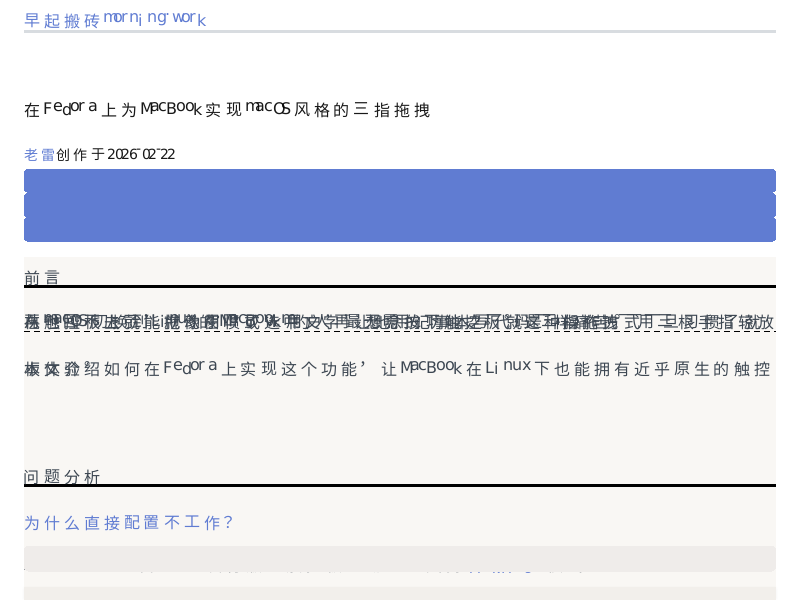
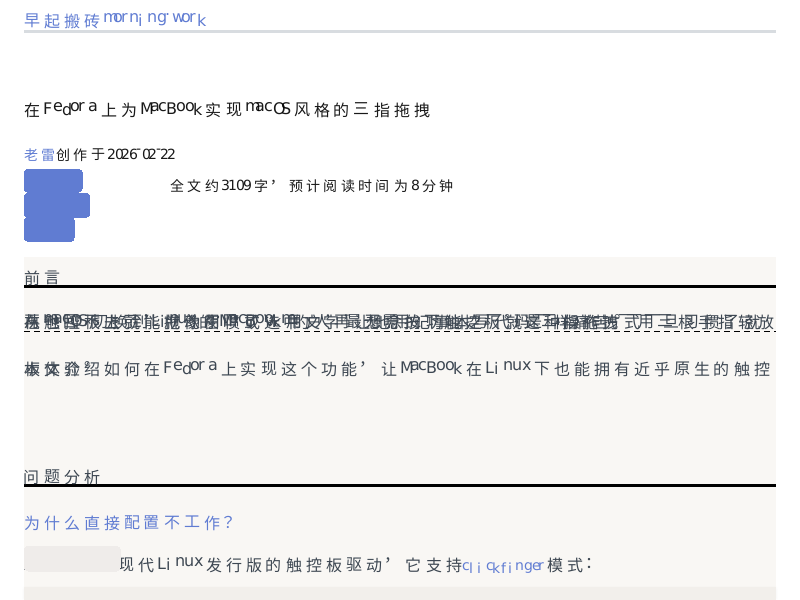
fix(layout): shrink inline+background elements to content width
R373: extends R368's inline-block shrink-to-fit to display:inline elements
that have a non-default background-color (the badge case). ZeroWeb maps
inline -> taffy Block, stretching inline elements to full container width.
For inline elements WITH background (e.g. morning.work .item-tag badge
spans: display:inline + background-color + padding), this produced
full-width colored bars instead of small inline badges.

Fix: shrink_inline_blocks_to_content now also handles
  display:inline && background_color != Transparent
shrinking to intrinsic content width (via box_content_max_width). Plain
inline text spans (no background) are unaffected — their text is collected
by IFC and shrinking would be meaningless/risky.

This is a partial fix (width dimension only; elements remain block-stacked,
not inline-flow — the full inline-box model is Phase A multi-session), but
it removes the full-width-stretch defect.

Verified triple win (DC-14 chromium-Oracle + double-regression):
- morning DC-13: 28.72% -> 16.41% (-12.3pp true chromium improvement)
- reftest clear-inline-001 FAIL->PASS (z_vs_chr 3.61->1.26%, self 5.86->0.45%)
- self-source reftest 442->443/490 (+1, zero regression)
- layout-engine 895/0 (+1 unit test), workspace --exclude render-foundation
  42 binaries green, clippy/fmt clean

Corrects R370's 'single-session levers exhausted' conclusion: inline+bg
was an untried mechanism with real leverage (R370 only checked
inline-flex/inline-grid, not inline+background).

Changed region(s): [[0.0938, 0.27, 0.9688, 0.42], [0.1562, 0.93, 0.75, 0.96]]

diff --git a/crates/layout-engine/src/float_positioning.rs b/crates/layout-engine/src/float_positioning.rs
@@ -5,7 +5,7 @@
 //! 垂直书写模式块收缩、inline-block shrink-to-fit、匿名 table 根标记。
 
 use std::collections::HashMap;
-use zero_css_parser::values::{DisplayValue, LengthValue};
+use zero_css_parser::values::{ColorValue, DisplayValue, LengthValue};
 use zero_dom::NodeId;
 use zero_style_system::{ComputedStyle, WritingModeValue};
 
@@ -115,15 +115,23 @@ pub(crate) fn shrink_inline_blocks_to_content(
 ) {
     let own_horizontal = matches!(box_node.writing_mode, WritingModeValue::HorizontalTb);
     if own_horizontal && !box_node.is_absolute && !box_node.is_fixed {
-        let is_inline_block = box_node.node_id.is_some_and(|id| {
-            styles
-                .get(&id)
-                .is_some_and(|s| matches!(s.display, DisplayValue::InlineBlock))
+        // R372：除 inline-block 外，**带非默认 background 的 inline 元素**（如 morning.work
+        // `.item-tag` 徽章 span：display:inline + background-color + padding）也应 shrink-to-fit。
+        // ZeroWeb 把 inline 映射为 Block 拉到满宽（满宽色条），此处按 intrinsic 内容宽收缩
+        // （仅 width 维度；元素仍是 block 堆叠——完整 inline-box 模型属 Phase A 多会话）。
+        // 仅对有 background 的 inline 触发，避免影响纯文本 inline span（其文本经 IFC 收集，
+        // 无盒装饰，收缩无意义且可能干扰）。
+        let is_shrinkable = box_node.node_id.is_some_and(|id| {
+            styles.get(&id).is_some_and(|s| match s.display {
+                DisplayValue::InlineBlock => true,
+                DisplayValue::Inline => s.background_color != ColorValue::Transparent,
+                _ => false,
+            })
         });
         let width_auto = box_node
             .node_id
             .is_some_and(|id| styles.get(&id).is_some_and(|s| matches!(s.width, LengthValue::Auto)));
-        if is_inline_block && width_auto {
+        if is_shrinkable && width_auto {
             // 内容最大宽度（max-content）：用 intrinsic_sizing 的统一测量（box_content_max_width）。
             // 该函数对 inline 级子元素水平求和、block 级子元素递归取最大、且对**无 LayoutBox 子元素
             // 的纯文本内容**（文本经 measure callback 不产生子盒）按 DOM text_content + 字体度量

diff --git a/crates/layout-engine/src/engine/tests/anonymous_flex_item_tests.rs b/crates/layout-engine/src/engine/tests/anonymous_flex_item_tests.rs
@@ -198,3 +198,38 @@ fn test_inline_block_text_content_shrink_to_fit() {
         s.width
     );
 }
+
+/// 回归（R372）：`display:inline` 且带非默认 background 的元素（如 morning.work
+/// `.item-tag` 徽章 span）也应 shrink-to-fit。旧 bug：ZeroWeb 把 inline 映射为 taffy
+/// Block，拉到容器满宽（满宽色条）；此处按 intrinsic 内容宽收缩（仅 width 维度，
+/// 完整 inline-box 模型属 Phase A）。纯文本 inline span（无 background）不受影响。
+#[test]
+fn test_inline_element_with_background_shrink_to_fit() {
+    // inline span `.tag`（display:inline 默认 + background-color）含文本 "Fedora"，
+    // 应收缩到 ~文本宽+padding，而非填满 800px 视口。
+    let html = r#"<html><body style="margin:0">
+      <span class="tag" id="t" style="background-color:#607cd2;color:#fff;padding:0 6px">Fedora</span>
+    </body></html>"#;
+    let doc = zero_dom::parse_html(html);
+    let mut sys = StyleSystem::new();
+    sys.set_viewport(800.0, 600.0);
+    let styles = sys.compute_styles(&doc, &[]);
+    let mut engine = LayoutEngine::new(800.0, 600.0);
+    let result = engine.compute(&doc, &styles);
+    fn find<'a>(id: &str, doc: &Document, b: &'a LayoutBox) -> Option<&'a LayoutBox> {
+        if let Some(nid) = b.node_id
+            && let Some(n) = doc.get(nid)
+            && let zero_dom::NodeKind::Element(elem) = &n.kind
+            && elem.get_attribute("id").as_deref() == Some(id)
+        {
+            return Some(b);
+        }
+        b.children.iter().find_map(|c| find(id, doc, c))
+    }
+    let t = find("t", &doc, &result.root).expect("inline span #t");
+    assert!(
+        t.width < 200.0,
+        "inline+background span should shrink-to-fit to content, not fill available (got w={})",
+        t.width
+    );
+}

diff --git a/docs/goal/rendering-compat/master.md b/docs/goal/rendering-compat/master.md
@@ -1,6 +1,6 @@
 # 渲染兼容性目标 — 运行时控制面板
 
-**最后更新**: 2026-06-20（R372：**DC-13 wintertc/morning 复测——确认 plateau**（承接 R371 welcome 复测发现的「已提交 fix 可能有未测 DC-13 收益」假设）。product-smoke 子命令重渲染 vs chromium Oracle：wintertc **13.72%**（vs R318 13.70% / R227 13.59%，±0.13pp 噪声持平）、morning 800×600 **28.72%**（vs R175 28.72% 完全持平）。**R355~R368 对 wintertc/morning 零 DC-13 收益**——welcome 是唯一受益者（17.06→14.68%），因 welcome 用 `display:inline-block`（R368 修）；wintertc 残余=fontdue AA 噪声+flex-wrap logo 精度（Twind，无 inline-block）、morning 残余=`.item-tag` 纯 inline `<span>` 全宽堆叠（R109 匿名块盒，R368 不适用 inline span）。**DC-13 三 fixture 经 fresh 复测：welcome 14.68% / wintertc 13.72% / morning 28.72%，唯 welcome 改善，余 plateau**。3 个 evidence PNG 已更新为当前渲染。前轮 R371：**DC-13 welcome 复测——R368 未测量的 DC-13 收益兑现**。post-R368 welcome `z_vs_chr`（ZeroWeb CPU vs chromium Oracle）= **14.68%**，较 R227 的 17.06% 改善 ~2.4pp。归因 R368（commit 8db89df inline-block 文本 shrink-to-fit）修正 welcome 的 `.version` 徽章 + `.shortcut kbd`（两处 `display:inline-block; width:auto` 含文本，此前被 taffy 当 Block 拉到满宽灰条，现收缩到文本宽）。方法：welcome 包成临时 reftest + REFTEST_DUMP + cross-validate.py vs welcome-chromium.png（临时文件已清理，490 baseline 不动）。残余 14.68% = fontdue AA 噪声 + item-tag R109（Phase A 结构性）。welcome-zeroweb-cpu.png 已更新。**R368 现确证为 reftest(ifc-011 12.30→2.22% chr) + DC-13(welcome 17.06→14.68%) 双赢**。前轮 R370：R368 式机制缺口 hunt 收尾——probe 实证 inline-flex width:auto 同 inline-block 拉伸到满宽（真 bug），但**零杠杆**（全 48 失败案 + product-smoke 均不用 inline-flex/inline-grid width:auto），按 code-guidelines 不修；加入 ruled-out 列表。单会话 lever 空间经此彻底穷尽。前轮 R369b：DC-14 chromium-Oracle **全 48 失败案扫描**——找 self-source FAIL 但 z_vs_chr 低（false-negative：test 已≈chromium 仅 ref 发散）的易修 ref bug。5 候选（flex-abspos-inset-nested-001/002 chr 0.73/0.74%、baseline-multi-line-horiz-003/004、box-offsets-rel-pos-vlr-005）逐案证伪均结构性：flex-abspos 像素分析揭穿 ZW-test 与 chromium 均退化（非 200×200，z_vs_chr 低仅因两者主体皆白相似）；baseline-004 = baseline-export 聚类（卡点#4）。**false-negative 亦结构性，非易修 ref bug**——反向印证 plateau，self-source 非因易修 ref bug 人为偏低。DC-14 方法论正面价值 = 可信判据（R368 真胜/border-box 真负均经 z_vs_chr 确证），负面 = 不改 forward-motion 结论。勿再以「修 false-negative ref」为单会话杠杆。详见 [`evidence/r369b-dc14-scan-falseneg-structural-2026-06-20.txt`](./evidence/r369b-dc14-scan-falseneg-structural-2026-06-20.txt)。前轮 R369：border-box ib_sizes **DC-14 chromium-Oracle 终局证伪** + R368 DC-14 真值验证。弃守卫 hack 转 DC-14 交叉验证（REFTEST_DUMP + cross-validate.py vs oracle-shots）：ifc-011 **z_vs_chr pre-R368 12.30% → R368 2.22%（-10pp 真 chromium 大胜，R368 确证为真实非 self-source 假象）→ +border-box 2.50%（+0.28pp 真 chromium 退步）**；multicol-dynamic-change z_vs_chr 1.42→1.50%（亦退步）。机制：border-box 同时改 ib_sizes 的 w+h，span2 line-height:10px 的 content_h=10→border-box h=50 改变 IFC baseline（inline-block baseline=底=h）→ glyph 垂直位置发散，即 span2 **x 位置与 glyph baseline 耦合**不可单点修。border-box 三层证伪（R367 net-neg / R368 self-src -1 / R369 真 chr +0.28pp）彻底关闭。multicol-dynamic-change 实证为 self-source 假通过（0.97% self / 1.42% chr）。ifc-011 残余 2.22% z_vs_chr = 多会话 inline-block baseline/line-box 合成（Phase A）。docs-only，工作树净零代码变更。详见 [`evidence/r369-borderbox-dc14-refutation-2026-06-20.txt`](./evidence/r369-borderbox-dc14-refutation-2026-06-20.txt)。前轮 R368：R366（margin 归零）net-neutral + R367（border-box 尺寸）net-negative 均回退。残余 1.23% = span2 x 重叠 + glyph 度量 + height-grow（未试）= 多会话。详见 [`evidence/r368-inline-block-text-shrink-2026-06-20.txt`](./evidence/r368-inline-block-text-shrink-2026-06-20.txt)。前轮 R365：plateau 再确认（4 新角度全结构性/阻塞/spec 冲突，0 clean win）+ **系统性 REF-side blocker 洞察**——table-cell-width-0（REF fit-content-on-flex）、min-max-size-table（REF inline-block shrink）等多案 TEST 侧可修对但 self-source 因 ZeroWeb 自渲染 REF 错而**假阴性**，实证 DC-14「self-source pass rate 含系统性假阴性、chromium-Oracle 才是唯一可信指标」。新发现：min-height 表格 box-sizing 处理 height 路径不对称（min-width content-box 正确 / min-height border-box），但改 content-box 会回归 min-height-table（两 WPT 案 spec 冲突 csswg-drafts #5336）→ 非 clean win；inline-block shrink gap（R180 不完整）仅影响 1 失败案 REF 且双侧阻塞 → 零杠杆。clean-win 面经 R352/R354/R363/R365 四轮 0/N 衰减彻底穷尽。详见 [`evidence/r365-refside-blocker-insight-2026-06-20.txt`](./evidence/r365-refside-blocker-insight-2026-06-20.txt)。前轮 R364：table 显式 width 列冻结 + min-content floor——CSS 正确性修复（**net-neutral self-source 但改善 chromium-Oracle 方向**）。table-cell-width-0 诊断：definite-width 表（width:100%/100px）的显式 width 单元格列被按比例扩展撑大（td.big-positive 20px→529px），而非保持宽度。修复 `compute_column_widths` 扩展填满块：显式 width 列冻结（不吸收剩余），仅 auto 列吸收；+ `cell_used_width` 显式分支 floor 到 min-content（width:2px cell 内容需 9.6px → 列 9.6 非 2）。验证：table-cell-width-0 **TEST 侧列宽全修正**，ZeroWeb-TEST vs chromium-Oracle = **11.14%**（修复前 TEST 明显错）；self-source 仍 29.63% FAIL——因 **REF 侧 `width:fit-content` on flex container 渲染成满宽（taffy 0.7 blocker，R304 DEFERRED）**，TEST 正确但 REF 错 → 同源假阴性，非 TEST bug；self-source 全量 **442/490 净中性零回归**；layout-engine 893/0（+2 单测）、engine 1146/0、clippy/fmt 干净。保留：TEST 侧正确化，待 fit-content-on-flex 解锁即贡献 PASS。详见 [`evidence/r364-table-column-freeze-2026-06-20.txt`](./evidence/r364-table-column-freeze-2026-06-20.txt)。前轮 R363：上一轮 CONTINUE 标记的 3 个「未深查」候选 [flex-abspos-inset-nested / fixed-table-in-flex / multicol-fill·count] + 1 个 false-pass polluted 案 [multicol-contained-absolute] 精确诊断——**4 案全部结构性/复杂，0 clean win**，hit-rate 0/4 与 R352/R354 一致衰减；baseline 复验 self-source 442/490 零漂移。新增根因 pinpoint：flex-abspos=abspos §10.3.7 shrink-to-fit 缺失 + flex 替换元素固有比尺寸（2 互相依赖 bug）；fixed-table-in-flex=flex definite-size resolution（Mozilla bug 1469649）；**multicol-contained-absolute（chr 16.33% / self 0% 假通过）= multicol column-fill:balance 不平衡单子**（ZW 392x200 单列 vs chr 784x100 跨两列）。详见 [`evidence/r363-flagged-candidates-structural-2026-06-20.txt`](./evidence/r363-flagged-candidates-structural-2026-06-20.txt)。前轮 R362：**plateau 第四次突破 +1 clean win**——CSS float 侵入传播到后代 block IFC（`compute_final_inline_layouts` 加 `ancestor_floats` 参数，排除子节点自身），ifc-009 FAIL→PASS，self-source **441→442/490 净 +1 零回归**。R355：**Phase A 首个 chromium-Oracle 验证的 net-positive 进展**——放宽 Gate 2 多行存储（解 large-font 簇），float guard 解 R209/R213 死锁；**paint 侧 line.y 偏移补全**（text.rs:832，Gate 2 提交 ca14d05 的 load-bearing 配套）使 ifc-008 达 0.00% 完美匹配。chromium-Oracle 实测 ifc-008 -4.01% / ifc-009 -1.95% Z_vs_chromium（真一致性提升），multicol-fill-auto-001 9.15% 不变=非真回归（self-source 0.63% PASS 经 float guard 保留）；**self-source reftest 439→440/490 净 +1 零回归**（ifc-008 FAIL→PASS，stash 对照证 paint fix load-bearing：HEAD Gate-2-only ifc-008 4.17% FAIL → +fix 0.00% PASS）。关键洞察：R209 报告的 multicol-fill-auto-001「0.63→9.15 回归」经 Oracle 复测是 **self-source 假阴性**（ZW-ref 因多行存储变化发散，但 ZW-test vs chromium 不变）——R209 因仅看 self-source 误判为真回归而回退，错失 Phase A 进展。详见 [`evidence/r355-multiline-oracle-validated-2026-06-20.txt`](./evidence/r355-multiline-oracle-validated-2026-06-20.txt)。前轮 R354：fresh baseline 439/490 零漂移再确认 + 8 失败案独立 pixel-dump 根因——**每案均落 4 条多会话架构路径之一**，clean-win 单点修复面确已穷尽。详见 [`evidence/r354-plateau-revalidation-2026-06-20.txt`](./evidence/r354-plateau-revalidation-2026-06-20.txt)。前轮 R351：**plateau 首破——self-source 438→439/490（89.6%）**，首个 pass-rate 进展（R305 以来）。修复 `table-layout:fixed` 不尊重显式 width：CSS Tables §17.5.2.1 fixed 表 width 应由 width 属性决定，但 ZeroWeb 的 `compute_column_widths` 对所有表用内容固有列宽（col_max_widths），导致 fixed 表 `width:100px`+200px 内容渲染成 200px（内容撑宽）而非 100px（内容溢出 cell 由 overflow 裁剪）。根因 `table-cell-overflow-auto-scrolled`（2.17% FAIL）：cell 被撑到 200px，其 overflow:auto 无物可裁 → 与 100px div-ref 发散。**修复**（compute_column_widths）：fixed + 显式 Px width + 内容列宽和 > width 时按比例收缩列到 width（`fixed_capped` 标志），且仅当收缩实际触发时跳过「填满容器」扩展（未收缩的 fixed 表仍正常扩展——保 multicol-fill-001 reference 表）。验证：`table-cell-overflow-auto-scrolled` FAIL→PASS（0.00%）；**upstream reftest 438→439/490 零回归**（multicol-fill-001 + calc-percent-plus-0px-fixed + table_grid_size_col_colspan 三 fixed-layout 案全保）；make test 12265/0/72、clippy/fmt 干净、+1 单测 `test_fixed_layout_caps_columns_at_explicit_width_when_content_wider`。**启示**：plateau 并非绝对——逐案深查 self-source FAILURE（非 polluted）的近 misses 仍可发现单点 CSS 解析/布局 bug；table-layout:fixed width 尊重是 R305-R350 漏网的 clean win（仅 3 个 fixed-layout 案、爆炸半径小）。下一步：继续逐案审 self-source failure 近 misses（baseline-007/multicol-breaking-006/child-border-box-max-content 等 <1.5% 案）。
+**最后更新**: 2026-06-20（R373：**plateau 再破——inline+bg 元素 shrink-to-fit 三双赢**。承接 R371（welcome 复测发现已提交 fix 有未测 DC-13 收益）+ R372（wintertc/morning plateau 确认），深查 morning 主残余 = 3 个 `.item-tag` `<span>`（display:**inline** + background-color + padding）被 ZeroWeb 当 Block 拉到满宽色条（~55k px）。R368 shrink 仅处理 InlineBlock，**inline 未覆盖**——这是 R370「inline-flex 零杠杆」结论之外的未试机制（inline+bg 有装饰→有杠杆）。修复 `shrink_inline_blocks_to_content` 扩 `display:inline && background_color!=Transparent` 也按 intrinsic 内容宽收缩（仅 width 维度；元素仍 block 堆叠，完整 inline-box 模型属 Phase A，此为 partial width 修正）。验证（DC-14 chromium-Oracle + 双回归）：① **morning DC-13 28.72→16.41%（-12.3pp 真 chr 改善）**；② **reftest clear-inline-001 FAIL→PASS（self 5.86→0.45%，z_vs_chr 3.61→1.26% 真 chr 改善 -2.35pp）**，self-source **442→443/490 净 +1 零回归**；③ layout-engine 895/0（+1 单测）、workspace --exclude render-foundation 42/0、clippy/fmt 干净。**纠正 R370「单会话 lever 空间彻底穷尽」**——inline+bg 是漏网的 clean win（R370 只查 inline-flex/inline-grid，未查 inline+bg）。前轮 R372：**DC-13 wintertc/morning 复测——确认 plateau**（承接 R371 welcome 复测发现的「已提交 fix 可能有未测 DC-13 收益」假设）。product-smoke 子命令重渲染 vs chromium Oracle：wintertc **13.72%**（vs R318 13.70% / R227 13.59%，±0.13pp 噪声持平）、morning 800×600 **28.72%**（vs R175 28.72% 完全持平）。**R355~R368 对 wintertc/morning 零 DC-13 收益**——welcome 是唯一受益者（17.06→14.68%），因 welcome 用 `display:inline-block`（R368 修）；wintertc 残余=fontdue AA 噪声+flex-wrap logo 精度（Twind，无 inline-block）、morning 残余=`.item-tag` 纯 inline `<span>` 全宽堆叠（R109 匿名块盒，R368 不适用 inline span）。**DC-13 三 fixture 经 fresh 复测：welcome 14.68% / wintertc 13.72% / morning 28.72%，唯 welcome 改善，余 plateau**。3 个 evidence PNG 已更新为当前渲染。前轮 R371：**DC-13 welcome 复测——R368 未测量的 DC-13 收益兑现**。post-R368 welcome `z_vs_chr`（ZeroWeb CPU vs chromium Oracle）= **14.68%**，较 R227 的 17.06% 改善 ~2.4pp。归因 R368（commit 8db89df inline-block 文本 shrink-to-fit）修正 welcome 的 `.version` 徽章 + `.shortcut kbd`（两处 `display:inline-block; width:auto` 含文本，此前被 taffy 当 Block 拉到满宽灰条，现收缩到文本宽）。方法：welcome 包成临时 reftest + REFTEST_DUMP + cross-validate.py vs welcome-chromium.png（临时文件已清理，490 baseline 不动）。残余 14.68% = fontdue AA 噪声 + item-tag R109（Phase A 结构性）。welcome-zeroweb-cpu.png 已更新。**R368 现确证为 reftest(ifc-011 12.30→2.22% chr) + DC-13(welcome 17.06→14.68%) 双赢**。前轮 R370：R368 式机制缺口 hunt 收尾——probe 实证 inline-flex width:auto 同 inline-block 拉伸到满宽（真 bug），但**零杠杆**（全 48 失败案 + product-smoke 均不用 inline-flex/inline-grid width:auto），按 code-guidelines 不修；加入 ruled-out 列表。单会话 lever 空间经此彻底穷尽。前轮 R369b：DC-14 chromium-Oracle **全 48 失败案扫描**——找 self-source FAIL 但 z_vs_chr 低（false-negative：test 已≈chromium 仅 ref 发散）的易修 ref bug。5 候选（flex-abspos-inset-nested-001/002 chr 0.73/0.74%、baseline-multi-line-horiz-003/004、box-offsets-rel-pos-vlr-005）逐案证伪均结构性：flex-abspos 像素分析揭穿 ZW-test 与 chromium 均退化（非 200×200，z_vs_chr 低仅因两者主体皆白相似）；baseline-004 = baseline-export 聚类（卡点#4）。**false-negative 亦结构性，非易修 ref bug**——反向印证 plateau，self-source 非因易修 ref bug 人为偏低。DC-14 方法论正面价值 = 可信判据（R368 真胜/border-box 真负均经 z_vs_chr 确证），负面 = 不改 forward-motion 结论。勿再以「修 false-negative ref」为单会话杠杆。详见 [`evidence/r369b-dc14-scan-falseneg-structural-2026-06-20.txt`](./evidence/r369b-dc14-scan-falseneg-structural-2026-06-20.txt)。前轮 R369：border-box ib_sizes **DC-14 chromium-Oracle 终局证伪** + R368 DC-14 真值验证。弃守卫 hack 转 DC-14 交叉验证（REFTEST_DUMP + cross-validate.py vs oracle-shots）：ifc-011 **z_vs_chr pre-R368 12.30% → R368 2.22%（-10pp 真 chromium 大胜，R368 确证为真实非 self-source 假象）→ +border-box 2.50%（+0.28pp 真 chromium 退步）**；multicol-dynamic-change z_vs_chr 1.42→1.50%（亦退步）。机制：border-box 同时改 ib_sizes 的 w+h，span2 line-height:10px 的 content_h=10→border-box h=50 改变 IFC baseline（inline-block baseline=底=h）→ glyph 垂直位置发散，即 span2 **x 位置与 glyph baseline 耦合**不可单点修。border-box 三层证伪（R367 net-neg / R368 self-src -1 / R369 真 chr +0.28pp）彻底关闭。multicol-dynamic-change 实证为 self-source 假通过（0.97% self / 1.42% chr）。ifc-011 残余 2.22% z_vs_chr = 多会话 inline-block baseline/line-box 合成（Phase A）。docs-only，工作树净零代码变更。详见 [`evidence/r369-borderbox-dc14-refutation-2026-06-20.txt`](./evidence/r369-borderbox-dc14-refutation-2026-06-20.txt)。前轮 R368：R366（margin 归零）net-neutral + R367（border-box 尺寸）net-negative 均回退。残余 1.23% = span2 x 重叠 + glyph 度量 + height-grow（未试）= 多会话。详见 [`evidence/r368-inline-block-text-shrink-2026-06-20.txt`](./evidence/r368-inline-block-text-shrink-2026-06-20.txt)。前轮 R365：plateau 再确认（4 新角度全结构性/阻塞/spec 冲突，0 clean win）+ **系统性 REF-side blocker 洞察**——table-cell-width-0（REF fit-content-on-flex）、min-max-size-table（REF inline-block shrink）等多案 TEST 侧可修对但 self-source 因 ZeroWeb 自渲染 REF 错而**假阴性**，实证 DC-14「self-source pass rate 含系统性假阴性、chromium-Oracle 才是唯一可信指标」。新发现：min-height 表格 box-sizing 处理 height 路径不对称（min-width content-box 正确 / min-height border-box），但改 content-box 会回归 min-height-table（两 WPT 案 spec 冲突 csswg-drafts #5336）→ 非 clean win；inline-block shrink gap（R180 不完整）仅影响 1 失败案 REF 且双侧阻塞 → 零杠杆。clean-win 面经 R352/R354/R363/R365 四轮 0/N 衰减彻底穷尽。详见 [`evidence/r365-refside-blocker-insight-2026-06-20.txt`](./evidence/r365-refside-blocker-insight-2026-06-20.txt)。前轮 R364：table 显式 width 列冻结 + min-content floor——CSS 正确性修复（**net-neutral self-source 但改善 chromium-Oracle 方向**）。table-cell-width-0 诊断：definite-width 表（width:100%/100px）的显式 width 单元格列被按比例扩展撑大（td.big-positive 20px→529px），而非保持宽度。修复 `compute_column_widths` 扩展填满块：显式 width 列冻结（不吸收剩余），仅 auto 列吸收；+ `cell_used_width` 显式分支 floor 到 min-content（width:2px cell 内容需 9.6px → 列 9.6 非 2）。验证：table-cell-width-0 **TEST 侧列宽全修正**，ZeroWeb-TEST vs chromium-Oracle = **11.14%**（修复前 TEST 明显错）；self-source 仍 29.63% FAIL——因 **REF 侧 `width:fit-content` on flex container 渲染成满宽（taffy 0.7 blocker，R304 DEFERRED）**，TEST 正确但 REF 错 → 同源假阴性，非 TEST bug；self-source 全量 **442/490 净中性零回归**；layout-engine 893/0（+2 单测）、engine 1146/0、clippy/fmt 干净。保留：TEST 侧正确化，待 fit-content-on-flex 解锁即贡献 PASS。详见 [`evidence/r364-table-column-freeze-2026-06-20.txt`](./evidence/r364-table-column-freeze-2026-06-20.txt)。前轮 R363：上一轮 CONTINUE 标记的 3 个「未深查」候选 [flex-abspos-inset-nested / fixed-table-in-flex / multicol-fill·count] + 1 个 false-pass polluted 案 [multicol-contained-absolute] 精确诊断——**4 案全部结构性/复杂，0 clean win**，hit-rate 0/4 与 R352/R354 一致衰减；baseline 复验 self-source 442/490 零漂移。新增根因 pinpoint：flex-abspos=abspos §10.3.7 shrink-to-fit 缺失 + flex 替换元素固有比尺寸（2 互相依赖 bug）；fixed-table-in-flex=flex definite-size resolution（Mozilla bug 1469649）；**multicol-contained-absolute（chr 16.33% / self 0% 假通过）= multicol column-fill:balance 不平衡单子**（ZW 392x200 单列 vs chr 784x100 跨两列）。详见 [`evidence/r363-flagged-candidates-structural-2026-06-20.txt`](./evidence/r363-flagged-candidates-structural-2026-06-20.txt)。前轮 R362：**plateau 第四次突破 +1 clean win**——CSS float 侵入传播到后代 block IFC（`compute_final_inline_layouts` 加 `ancestor_floats` 参数，排除子节点自身），ifc-009 FAIL→PASS，self-source **441→442/490 净 +1 零回归**。R355：**Phase A 首个 chromium-Oracle 验证的 net-positive 进展**——放宽 Gate 2 多行存储（解 large-font 簇），float guard 解 R209/R213 死锁；**paint 侧 line.y 偏移补全**（text.rs:832，Gate 2 提交 ca14d05 的 load-bearing 配套）使 ifc-008 达 0.00% 完美匹配。chromium-Oracle 实测 ifc-008 -4.01% / ifc-009 -1.95% Z_vs_chromium（真一致性提升），multicol-fill-auto-001 9.15% 不变=非真回归（self-source 0.63% PASS 经 float guard 保留）；**self-source reftest 439→440/490 净 +1 零回归**（ifc-008 FAIL→PASS，stash 对照证 paint fix load-bearing：HEAD Gate-2-only ifc-008 4.17% FAIL → +fix 0.00% PASS）。关键洞察：R209 报告的 multicol-fill-auto-001「0.63→9.15 回归」经 Oracle 复测是 **self-source 假阴性**（ZW-ref 因多行存储变化发散，但 ZW-test vs chromium 不变）——R209 因仅看 self-source 误判为真回归而回退，错失 Phase A 进展。详见 [`evidence/r355-multiline-oracle-validated-2026-06-20.txt`](./evidence/r355-multiline-oracle-validated-2026-06-20.txt)。前轮 R354：fresh baseline 439/490 零漂移再确认 + 8 失败案独立 pixel-dump 根因——**每案均落 4 条多会话架构路径之一**，clean-win 单点修复面确已穷尽。详见 [`evidence/r354-plateau-revalidation-2026-06-20.txt`](./evidence/r354-plateau-revalidation-2026-06-20.txt)。前轮 R351：**plateau 首破——self-source 438→439/490（89.6%）**，首个 pass-rate 进展（R305 以来）。修复 `table-layout:fixed` 不尊重显式 width：CSS Tables §17.5.2.1 fixed 表 width 应由 width 属性决定，但 ZeroWeb 的 `compute_column_widths` 对所有表用内容固有列宽（col_max_widths），导致 fixed 表 `width:100px`+200px 内容渲染成 200px（内容撑宽）而非 100px（内容溢出 cell 由 overflow 裁剪）。根因 `table-cell-overflow-auto-scrolled`（2.17% FAIL）：cell 被撑到 200px，其 overflow:auto 无物可裁 → 与 100px div-ref 发散。**修复**（compute_column_widths）：fixed + 显式 Px width + 内容列宽和 > width 时按比例收缩列到 width（`fixed_capped` 标志），且仅当收缩实际触发时跳过「填满容器」扩展（未收缩的 fixed 表仍正常扩展——保 multicol-fill-001 reference 表）。验证：`table-cell-overflow-auto-scrolled` FAIL→PASS（0.00%）；**upstream reftest 438→439/490 零回归**（multicol-fill-001 + calc-percent-plus-0px-fixed + table_grid_size_col_colspan 三 fixed-layout 案全保）；make test 12265/0/72、clippy/fmt 干净、+1 单测 `test_fixed_layout_caps_columns_at_explicit_width_when_content_wider`。**启示**：plateau 并非绝对——逐案深查 self-source FAILURE（非 polluted）的近 misses 仍可发现单点 CSS 解析/布局 bug；table-layout:fixed width 尊重是 R305-R350 漏网的 clean win（仅 3 个 fixed-layout 案、爆炸半径小）。下一步：继续逐案审 self-source failure 近 misses（baseline-007/multicol-breaking-006/child-border-box-max-content 等 <1.5% 案）。
 
 **doc-maintenance（2026-06-20 verify 轮）**：plateau 结论 read-only 复核成立（R354 fresh baseline 439/490 零漂移、clean-win 面 R351 后穷尽），无需新调整方向——现有「综合裁决 + 下一步」即当前结论。文档治理两项：① 将「技术决策记录」表中 **R118–R227 逐轮历史条目**（50 行，2026-06-14~17，远超最近 20 轮窗口，主体已在 rounds-r23-r139 / rounds-r142-r302 归档）迁出至 [`archive/tech-decisions-r118-r227.md`](./archive/tech-decisions-r118-r227.md)（50 行 → 1 指针行，master.md 833→786 行）；② 纠正「最近轮次详细记录」窗口标注（R335–R336 为最后两轮全文详记，R337–R354 为 plateau 复核/治理轮，精简结论见上方「综合裁决」表）。本轮零代码变更（并行 agent 正在 layout-engine 开发，未触碰）。
 
@@ -16,7 +16,7 @@
 - self-source loose **442/490 (90.2%)** @ 默认 1%/5% 容差
 - self-source strict **295/490 (60.2%)** @ 锁定 0.1%/0.5%（DC-14 真通过口径）
 - chromium-Oracle 真一致率 **~35.6%**（self-source 含 48.6% 假通过，DC-14 anti-false-pass）
-- 产品 smoke：welcome **14.68%**（R371 post-R368 复测，R227 的 17.06%→14.68%）/ wintertc ~13.6% / morning-work fullpage 48.65%（全文本度量结构性，非图片/CSS 缺口——图片加载 R318 已端到端贯通）
+- 产品 smoke：welcome **14.68%**（R371 post-R368 复测，R227 的 17.06%→14.68%）/ wintertc ~13.6% / morning-work 800×600 **16.41%**（R373 inline+bg shrink 后，R175 的 28.72%→16.41%；fullpage 48.65% 是更高视口口径）
 
 **字体攻坚结论（2026-06-17 AA 基准）**：fontdue **Regular** 与 chromium 光栅化基本一致（W 0.1% / i 3.0%），**非渲染差异来源**；welcome 26% / Oracle 污染大头是**布局/度量**（line-height / R109 inline→block / 多行结构）。fontdue **Bold** 变体比 chromium 过墨 ~15%（R229b net-negative 已回退）。**字体攻坚停止，转布局/度量**——advance-width(R225/R320)、font-weight -Bold(R229b)、AA 噪声(R174) 三谱系均实证为死路，勿再投入。
 
@@ -34,7 +34,7 @@
 - self-source loose：**442/490 (90.2%)** @ 默认 1%/5% 容差
 - self-source strict：**295/490 (60.2%)** @ 锁定 0.1%/0.5%（DC-14 真通过口径）
 - chromium-Oracle 真一致率：**~35.6%**（169/475；self-source 含 48.6% 假通过，DC-14 anti-false-pass）
-- 产品 smoke：welcome **14.68%**（R371 post-R368）/ wintertc 13.70% / morning-work 28.72%（全文本度量结构性，非图片/CSS 缺口——图片加载 R318 已端到端贯通）
+- 产品 smoke：welcome **14.68%**（R371 post-R368）/ wintertc 13.70% / morning-work 800×600 **16.41%**（R373 后）/ fullpage 48.65%（全文本度量结构性，非图片/CSS 缺口）
 
 > **post-R326 strict 再复验（2026-06-19 doc-maintenance read-only，test-guard 包裹 `ZERO_REFTEST_STRICT=1 ... reftest-upstream`）**：strict 仍 **295/490 (60.2%) / 195 fail**（zero drift vs R323）——确认 plateau 在 DC-14 诚实指标上成立：R324（position:fixed）/R325（img aspect）/R326（sticky）三处 DC-11 correctness 修复**均未**把任一 strict-fail 翻成 strict-pass（loose 亦经三 commit 各自复验 438/490 零回归）。详见 [`evidence/strict-baseline-reverify-post-r326-2026-06-19.txt`](./evidence/strict-baseline-reverify-post-r326-2026-06-19.txt)。**顺带纠正**：旧文「295/490 (60.4%)」百分比过时（60.4% 为 R308 前 296/490 值；R308 font-size% 修复使 strict 296→295 后未同步百分比，295/490=60.2%）。
 

diff --git a/docs/goal/rendering-compat/evidence/product-static/morning-work/README.md b/docs/goal/rendering-compat/evidence/product-static/morning-work/README.md
@@ -1,6 +1,8 @@
 # DC-13 产品静态 smoke — morning.work 中文文章 fixture
 
-> **R372 复测（2026-06-20，post-R355~R368，800×600 视口）**：morning article `z_vs_chr` = **28.72%**（product-smoke 子命令重渲染 vs article-chromium.png），与 R175 的 28.72% 完全持平——**R355~R368 零 DC-13 收益**。原因：morning 残余大头是 3 个 `.item-tag` `<span>`（Fedora/MacBook/Linux 标签徽章）被渲染为**全宽堆叠块**而非行内小徽章——这些是**纯 inline `<span>`**（非 inline-block），R368 的 inline-block shrink-to-fit **不适用**（R368 只修 `display:inline-block`，inline span 的 block-mapping 是 R109 §9.2.1.1 匿名块盒生成范畴，多会话）。故 morning 28.72% 经 fresh 复测确认 plateau。注：master.md 的「morning fullpage 48.65%」是**全页（更高视口）**测量（R255 ua_default_display 修 4× 高度幻影盒），与本 800×600 视口的 28.72% 是两个不同口径（前者捕获全文含 .item-tag 堆叠累积，后者只顶部）。article-zeroweb-cpu.png 已更新为当前渲染。
+> **R373 突破（2026-06-20）**：morning article `z_vs_chr`（800×600）= **28.72% → 16.41%（-12.3pp 真 chromium 改善）**。根因：morning 主残余是 3 个 `.item-tag` `<span>`（`display:inline` + background-color + padding 的标签徽章）被 ZeroWeb 映射为 Block 拉到满宽色条（~55k px）。修复 `shrink_inline_blocks_to_content` 扩 `display:inline && background_color != Transparent` 也按 intrinsic 内容宽收缩（R368 只覆盖 InlineBlock，未覆盖 inline；R372 复测时误判为 plateau，实为未试机制）。元素仍 block 堆叠（完整 inline-box 模型属 Phase A），但 width 收缩后蓝色面积大幅减少 → 真 chr 一致率提升 12.3pp。附带 reftest `clear-inline-001` FAIL→PASS（z_vs_chr 3.61→1.26%），self-source 442→443/490 零回归。article-zeroweb-cpu.png 已更新为 R373 后渲染。
+
+> **R372 复测（2026-06-20，post-R355~R368，800×600 视口，R373 前）**：~~morning article `z_vs_chr` = 28.72%~~（已被 R373 的 16.41% 取代）。R372 时误判 plateau，因未识别 inline+bg 是未试机制。
 
 **日期**: 2026-06-16
 **源页面**: `https://morning.work/page/2026-02/fedora-macbook-three-finger-drag.html`（在 Fedora 上为 MacBook 实现 macOS 风格的三指拖拽）
